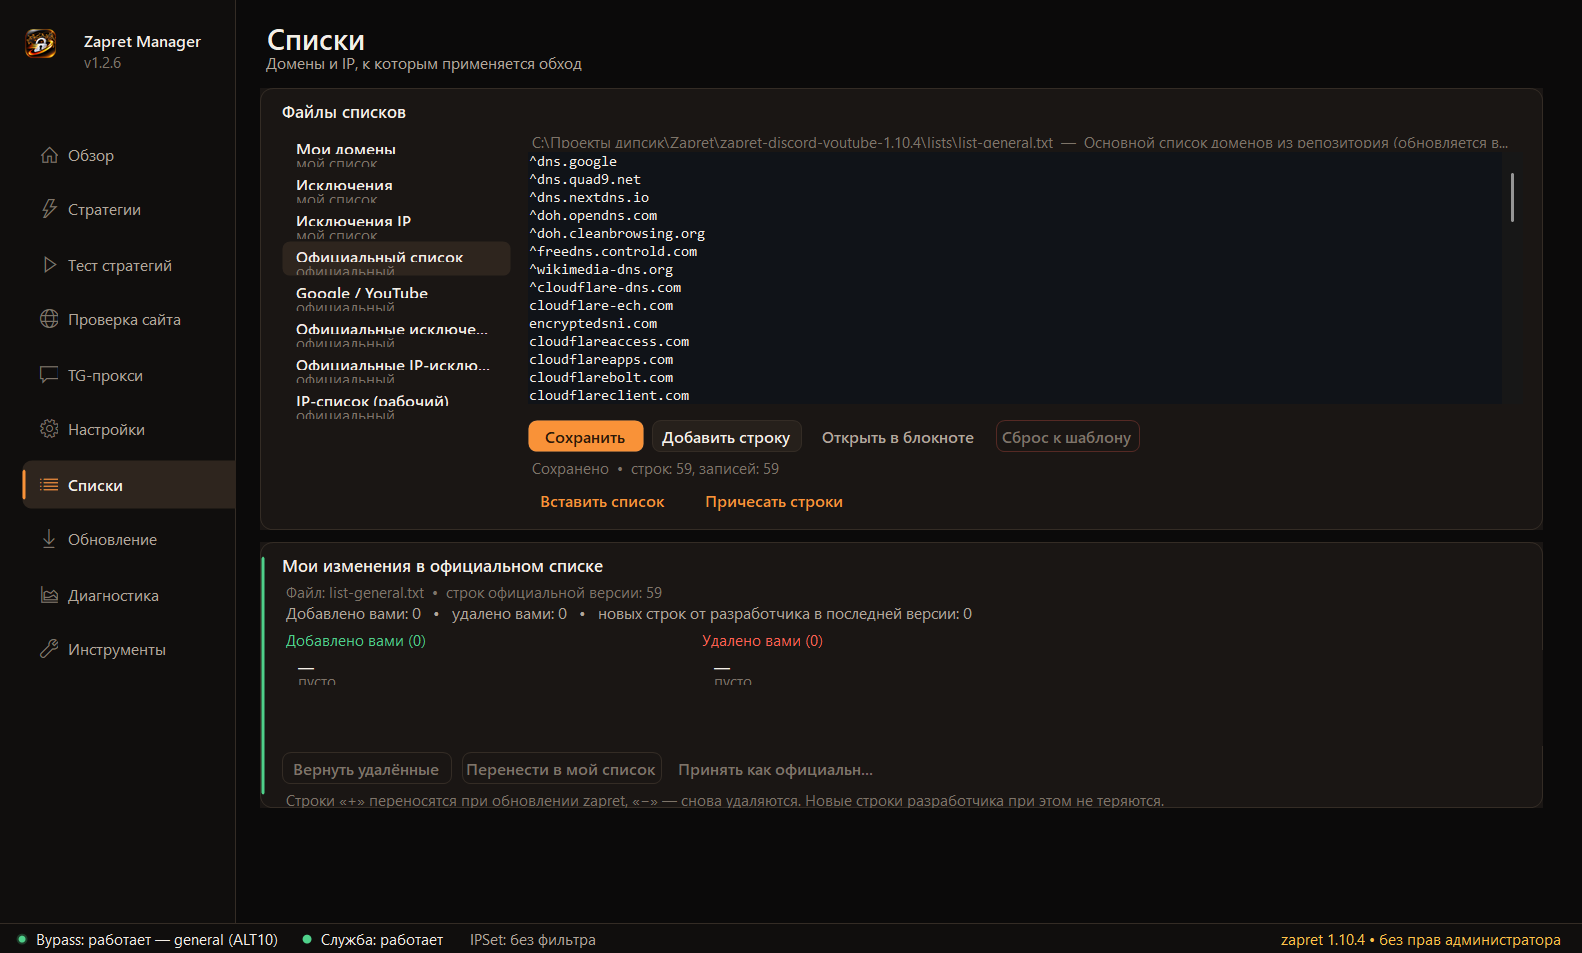
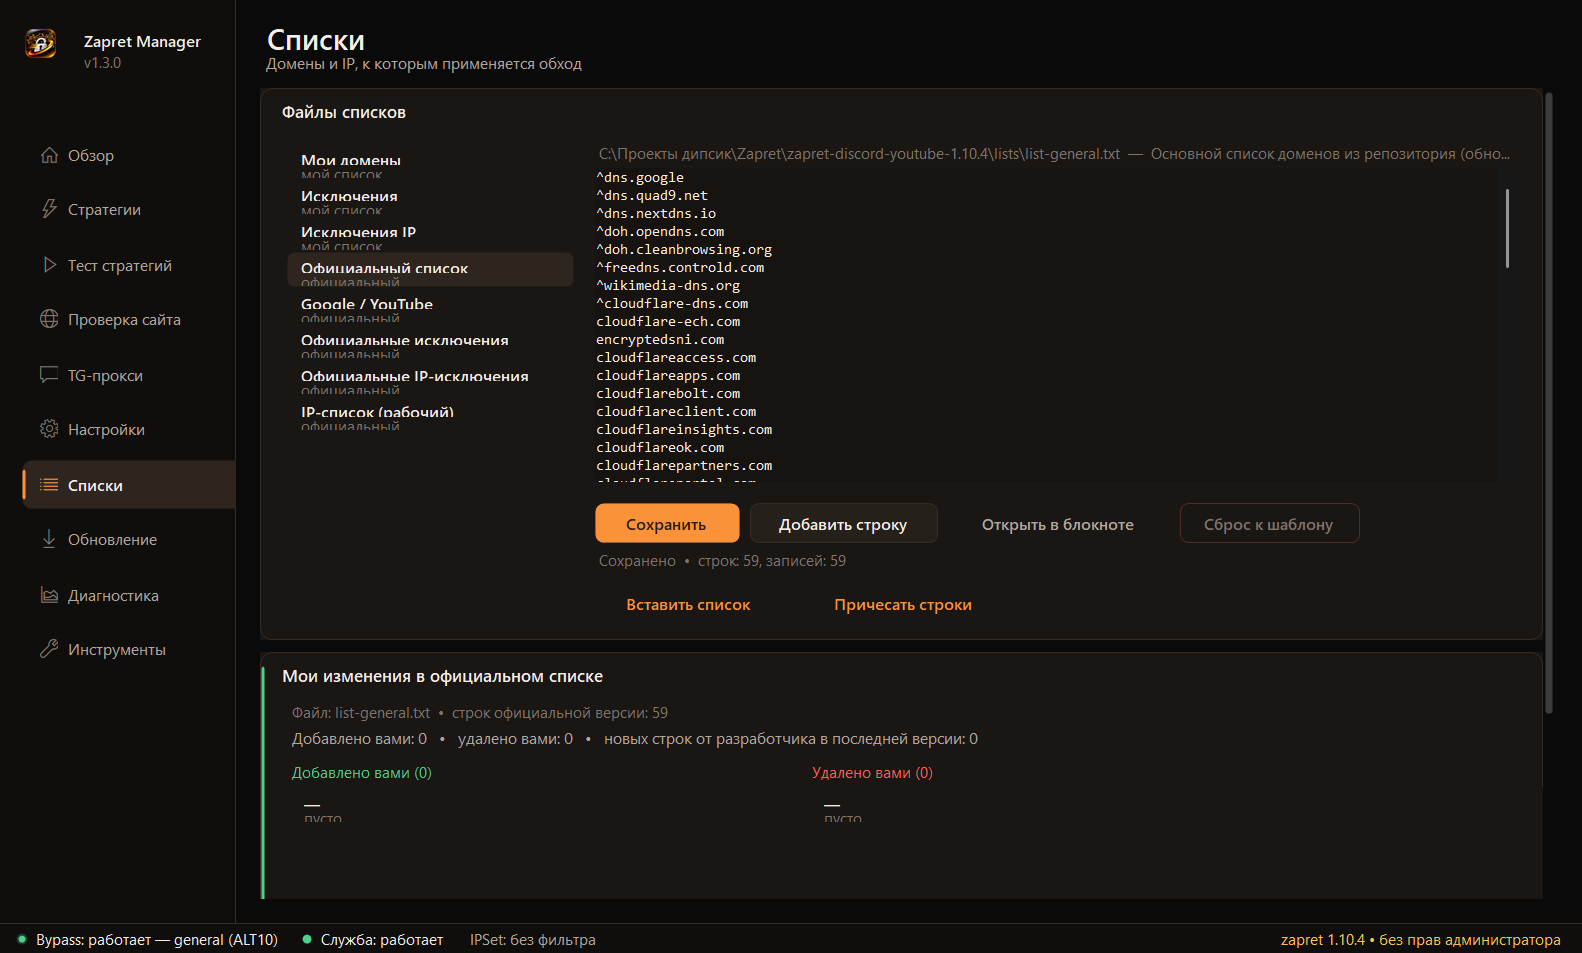
Крупная правка интерфейса: масштабирование страниц, тёмные редакторы, читаемые списки
- вернул масштабирование страниц под DPI (без него текст 125% не влезал в блоки — отсюда налезания)
- списки/стратегии: динамические отступы считаются через Theme.Px, кнопки больше не прячутся под редактором
- редакторы списков и адресов: тёплый фон Theme.Editor вместо синеватого (16,19,24) — «синие окна» ушли
- StrategyList: высота строк масштабируется, описание группы ALT выводится один раз
- SelectPopup: высота строки масштабируется — текст в выпадающих списках больше не наезжает
- «О программе»: вернул блок «Поддержать проект» + Boosty/DonationAlerts + «На хлебушек»
- нижний отступ контента: последняя карточка полностью доступна прокруткой
- WS_EX_COMPOSITED только в обычном окне: развёрнутое окно больше не превращается в «застывшую картинку»

Changed region(s): [[0.1549, 0.0913, 0.9912, 0.9433], [0.5265, 0.4565, 0.7124, 0.4869], [0.7434, 0.5477, 0.8673, 0.5782]]

diff --git a/src/UI.cs b/src/UI.cs
@@ -18,6 +18,8 @@ namespace ZapretManager
         public static Color SurfaceTop = Surface;
         public static Color SurfaceBottom = Surface;
         public static Color SurfaceAlt = Color.FromArgb(38, 32, 27);
+        /// <summary>Фон текстовых редакторов: тёплый, в тон карточкам (без синевы).</summary>
+        public static Color Editor = Color.FromArgb(22, 19, 17);
         public static Color Hover = Color.FromArgb(50, 43, 36);
         public static Color Border = Color.FromArgb(52, 44, 37);
         public static Color BorderStrong = Color.FromArgb(78, 66, 54);
@@ -160,6 +162,7 @@ namespace ZapretManager
                 SurfaceTop = Surface;
                 SurfaceBottom = Surface;
                 SurfaceAlt = Color.FromArgb(242, 239, 235);
+                Editor = Color.FromArgb(250, 248, 245);
                 Hover = Color.FromArgb(232, 228, 222);
                 Border = Color.FromArgb(221, 215, 207);
                 BorderStrong = Color.FromArgb(198, 189, 178);
@@ -877,7 +880,7 @@ namespace ZapretManager
                 if (c.Width != w) c.Width = w;
                 y += c.Height + Gap;
             }
-            ContentHeight = y;
+            ContentHeight = y + Theme.Px(120);   // нижний отступ: последняя карточка не упирается в край
             EventHandler h = LayoutDone;
             if (h != null) h(this, EventArgs.Empty);
         }
@@ -1102,7 +1105,7 @@ namespace ZapretManager
         private int _scroll;
         private int _hover = -1;
         private bool _dragBar;
-        private const int RowH = 56;
+        private static int RowH { get { return Math.Max(56, (int)Math.Round(56 * Theme.S)); } }
         private const int BarW = 6;
 
         public StrategyList()
@@ -1139,6 +1142,16 @@ namespace ZapretManager
             _scroll = 0;
             if (_selected >= items.Count) _selected = -1;
             Invalidate();
+        }
+
+        /// <summary>Индекс первой альтернативной стратегии: её описание относится ко всей группе.</summary>
+        private int FirstAlt()
+        {
+            for (int i = 0; i < Items2.Count; i++)
+            {
+                if (string.Equals(Items2[i].Kind, "alt", StringComparison.OrdinalIgnoreCase)) return i;
+            }
+            return -1;
         }
 
         private int ContentHeight { get { return Items2.Count * RowH + 8; } }
@@ -1276,15 +1289,19 @@ namespace ZapretManager
                 if (active) Draw.FillRound(g, new Rectangle(r.X, r.Y + 10, 3, r.Height - 20), 2, Theme.Success);
 
                 int x = r.X + 14;
-                int badgeW = 84;
-                TextRenderer.DrawText(g, s.Name, Theme.Bold, new Rectangle(x, r.Y + 9, r.Width - badgeW - 30, 18),
+                int badgeW = Theme.Px(84);
+                TextRenderer.DrawText(g, s.Name, Theme.Bold, new Rectangle(x, r.Y + Theme.Px(9), r.Width - badgeW - 30, Theme.Px(20)),
                     selected || active ? Theme.Text : Theme.Text, TextFormatFlags.Left | TextFormatFlags.NoPrefix | TextFormatFlags.EndEllipsis);
-                TextRenderer.DrawText(g, s.Description, Theme.Small, new Rectangle(x, r.Y + 28, r.Width - badgeW - 30, 16),
-                    Theme.TextMuted, TextFormatFlags.Left | TextFormatFlags.NoPrefix | TextFormatFlags.EndEllipsis);
-
+                // длинное описание показываем только у первой стратегии группы
+                bool showDesc = (i == FirstAlt()) || (i == 0) || !string.Equals(Items2[i - 1].Description, s.Description, StringComparison.Ordinal);
+                if (showDesc)
+                {
+                    TextRenderer.DrawText(g, s.Description, Theme.Small, new Rectangle(x, r.Y + Theme.Px(28), r.Width - badgeW - 30, Theme.Px(18)),
+                        Theme.TextMuted, TextFormatFlags.Left | TextFormatFlags.NoPrefix | TextFormatFlags.EndEllipsis);
+                }
                 string badge = s.ShortName;
-                int bw = Math.Min(badgeW, TextRenderer.MeasureText(badge, Theme.Small).Width + 18);
-                Rectangle badgeRect = new Rectangle(r.Right - bw - 12, r.Y + (r.Height - 20) / 2, bw, 20);
+                int bw = Math.Min(badgeW, TextRenderer.MeasureText(badge, Theme.Small).Width + Theme.Px(18));
+                Rectangle badgeRect = new Rectangle(r.Right - bw - Theme.Px(12), r.Y + (r.Height - Theme.Px(20)) / 2, bw, Theme.Px(20));
                 Color badgeColor = BadgeColor(s.Kind);
                 Draw.FillRound(g, badgeRect, 10, Theme.WithAlpha(badgeColor, 40));
                 TextRenderer.DrawText(g, badge, Theme.Small, badgeRect, badgeColor, Draw.Center);

diff --git a/src/PageTools.cs b/src/PageTools.cs
@@ -231,10 +231,24 @@ namespace ZapretManager
             tgproxy.Location = new Point(22, y + 60);
             tgproxy.Click += delegate { Native.OpenUrl("https://github.com/Flowseal/tg-ws-proxy"); };
             _aboutCard.Controls.Add(tgproxy);
-            Label v = L("Настройки и журнал: " + AppPaths.DataDir, Theme.Small, Theme.TextMuted, 22, y + 96);
+
+            _aboutCard.Controls.Add(L("Поддержать проект", Theme.Small, Theme.TextDim, 22, y + 100));
+
+            LinkBadge boosty = new LinkBadge("Boosty", "https://boosty.to/robin19666", Color.FromArgb(255, 107, 0));
+            boosty.Location = new Point(22, y + 124);
+            _aboutCard.Controls.Add(boosty);
+
+            LinkBadge donate = new LinkBadge("DonationAlerts", "https://www.donationalerts.com/r/robin19666", Color.FromArgb(255, 138, 0));
+            donate.Location = new Point(22 + boosty.Width + 10, y + 124);
+            _aboutCard.Controls.Add(donate);
+
+            _aboutCard.Controls.Add(L("На хлебушек", Theme.Small, Theme.TextMuted,
+                22 + boosty.Width + 10 + donate.Width + 12, y + 130));
+
+            Label v = L("Настройки и журнал: " + AppPaths.DataDir, Theme.Small, Theme.TextMuted, 22, y + 164);
             _aboutCard.Controls.Add(v);
 
-            _aboutCard.Height = y + 96 + 16 + 14;
+            _aboutCard.Height = y + 164 + 16 + 16;
             View.Stack.Add(_aboutCard);
         }
         private void InstallService()

diff --git a/src/UI2.cs b/src/UI2.cs
@@ -269,7 +269,7 @@ namespace ZapretManager
         private readonly int _maxHeight;
         private int _offset;
         private int _hover = -1;
-        private const int RowH = 28;
+        private static int RowH { get { return Math.Max(28, (int)Math.Round(28 * Theme.S)); } }
 
         public SelectPopup(System.Collections.Generic.List<string> items, int selected, Size size, Point screenLocation)
         {
@@ -373,7 +373,7 @@ namespace ZapretManager
         public DarkEditor()
         {
             BorderStyle = BorderStyle.None;
-            BackColor = Color.FromArgb(16, 19, 24);
+            BackColor = Theme.Editor;
             ForeColor = Theme.Text;
             Font = Theme.Mono;
             DetectUrls = false;

diff --git a/src/PageLists.cs b/src/PageLists.cs
@@ -152,8 +152,8 @@ namespace ZapretManager
             _card.Resize += delegate
             {
                 int w = _card.ClientSize.Width;
-                _editor.Size = new Size(w - 288, Math.Max(80, _card.ClientSize.Height - 190));
-                _fileList.Height = Math.Max(80, _card.ClientSize.Height - 108);
+                _editor.Size = new Size(w - Theme.Px(288), Math.Max(Theme.Px(80), _card.ClientSize.Height - Theme.Px(190)));
+                _fileList.Height = Math.Max(Theme.Px(80), _card.ClientSize.Height - Theme.Px(108));
             };
 
             View.Stack.Add(_card);

diff --git a/src/Shell.cs b/src/Shell.cs
@@ -1048,6 +1048,9 @@ namespace ZapretManager
             foreach (PageBase p in pages)
             {
                 p.Build();
+                Theme.ScaleKeepingFonts(p.View, Theme.S);
+                p.View.Stack.PerformLayout();
+                p.View.Stack.Height = Math.Max(10, p.View.Stack.ContentHeight);
                 p.View.Visible = false;
                 _pageHost.Controls.Add(p.View);
                 _shell.Pages.Add(p);

diff --git a/src/PageOverview.cs b/src/PageOverview.cs
@@ -312,7 +312,7 @@ namespace ZapretManager
             _logCard.Controls.Add(_log);
             _logCard.Resize += delegate
             {
-                _log.Size = new Size(_logCard.ClientSize.Width - 40, Math.Max(40, _logCard.ClientSize.Height - 66));
+                _log.Size = new Size(_logCard.ClientSize.Width - Theme.Px(40), Math.Max(Theme.Px(40), _logCard.ClientSize.Height - Theme.Px(66)));
             };
         }
 
